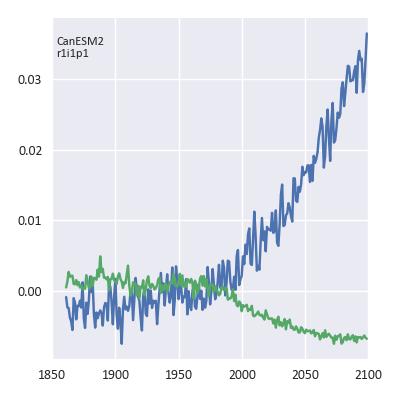
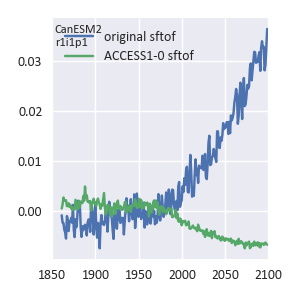
sftof maps

diff --git a/scripts/plots_map_samples.py b/scripts/plots_map_samples.py
@@ -23,21 +23,21 @@ import plot_maps as pl_mp; reload(pl_mp)
 
 # sic treatment
 arguments={
-	'files':['/p/projects/ipcc_pcmdi/ipcc_ar5_pcmdi/pcmdi_data/historical/OImon/sic/EC-EARTH/r1i1p1/sic_OImon_EC-EARTH_historical_r1i1p1_185001-200912.nc','data_models/EC-EARTH_r1i1p1/sic_rcp85_1861-2014.nc','data_models/EC-EARTH_r1i1p1/sic_rcp85_sicFix_1861-2014.nc'],
-	'var_names':['sic','sic','sic'],
+	'files':['data_models/EC-EARTH_r1i1p1/sic_rcp85_1861-2014.nc','data_models/EC-EARTH_r1i1p1/sic_rcp85_sicFix_1861-2014.nc'],
+	'var_names':['sic','sic'],
 	'titles':['no NAN-treatment','correct NAN-treatment'],
 	'outfile':'gmt_method_sensitivities/figures/maps_EC-EARTH_sicTreatment.png',
 	'label':'sic [0-1]',
 	'color_range':[0,1],
 	'extend':[5,35,50,85],
-	'time_steps':[132,0,0],
+	'time_steps':[0,0],
 }
 pl_mp.plot_maps(**arguments)
 
 
 # tos treatment
 arguments={
-	'files':['/p/projects/ipcc_pcmdi/ipcc_ar5_pcmdi/pcmdi_data/historical/Omon/tos/EC-EARTH/r1i1p1/tos_Omon_EC-EARTH_historical_r1i1p1_185001-200912.nc','data_models/EC-EARTH_r1i1p1/tos_rcp85_tosError_1861-2014.nc','data_models/EC-EARTH_r1i1p1/tos_rcp85_1861-2014.nc'],
+	'files':['data_models/EC-EARTH_r1i1p1/tos_rcp85_tosError_1861-2014.nc','data_models/EC-EARTH_r1i1p1/tos_rcp85_1861-2014.nc'],
 	'var_names':['tos','tos'],
 	'titles':['no NAN-treatment','correct NAN-treatment'],
 	'outfile':'gmt_method_sensitivities/figures/maps_EC-EARTH_tosTreatment.png',
@@ -89,6 +89,18 @@ arguments={
 }
 pl_mp.plot_maps(**arguments)
 
+# IPSL-CM5A-LR sftof replace
+arguments={
+	'files':['sftof_regrid/IPSL-CM5A-LR_remapbil.nc','sftof_regrid/IPSL-CM5A-LR_remapbil_NanTreated.nc','sftof_regrid/ACCESS1-0_remapbil.nc'],
+	'var_names':['sftof','sftof','sftof'],
+	'titles':['IPSL-CM5A-LR','IPSL-CM5A-LR nan treatment','ACCESS1-0'],
+	'outfile':'gmt_method_sensitivities/figures/maps_sftof_IPSL-CM5A-LR.png',
+	'label':'sftof [0-100]',
+	'color_range':[0,100],
+	'extend':[-10,20,30,65],
+	'nrows':1,
+}
+pl_mp.plot_maps(**arguments)
 
 # ACCESS1-0 sftof regridding
 arguments={

diff --git a/scripts/plots_single_model.py b/scripts/plots_single_model.py
@@ -32,33 +32,42 @@ tos_issues=[u'EC-EARTH_r1i1p1',
 def plot_single(model_run,style,var,versions,sftof_styles,outname,labels=None):
 	if labels is None: labels=versions
 	plt.close('all')
-	fig,ax=plt.subplots(nrows=1,ncols=1,figsize=(4,4))
+	fig,ax=plt.subplots(nrows=1,ncols=1,figsize=(3,3))
 	for version,sftof_style,label in zip(versions,sftof_styles,labels):
 		diff=(gmt_all[version,sftof_style,style,'rcp85',model_run,var,1861:2100].values-gmt_cowtan[style,'rcp85',model_run,var,1861:2100].values)
 		ax.plot(range(1861,2100,1),diff.reshape((len(gmt_cowtan.time)/12,12)).mean(axis=-1),label=label)
 
-	ax.text(1853,0.033,model_run.replace('_','\n'),fontsize=9)
 	ax.set_xlim((1850,2100))
 	#ax.set_ylim((-0.05,0.05))
 	#ax.set_yticks([-0.05,-0.025,0,0.025,0.05])
-	plt.legend()
+	ax.legend(loc='best')
 	plt.tight_layout()
 	plt.savefig(outname)
 
 plot_single(model_run='EC-EARTH_r1i1p1',
 			style='xax',
 			var='gmt',
-			versions=['_tosError','_sicError','_normal'],
+			versions=['_naive','_tosError','_normal'],
+			labels=['naive','tos Error','normal'],
 			sftof_styles=['_remapbil','_remapbil','_remapbil'],
-			outname='figures/tosError_EC-EARTH_r1i1p1.png')
+			outname='figures/tosError_EC-EARTH.png')
 
-
-plot_single(model_run='CanESM2_r1i1p1',
+plot_single(model_run='EC-EARTH_r1i1p1',
 			style='xax',
 			var='gmt',
-			versions=['_sftofError','_normal'],
-			sftof_styles=['_remapbil','_remapbil'],
-			outname='figures/sftofError_CanESM2_r1i1p1.png')
+			versions=['_naive','_sicError','_normal'],
+			labels=['naive','sic Error','normal'],
+			sftof_styles=['_remapbil','_remapbil','_remapbil'],
+			outname='figures/sicError_EC-EARTH.png')
+
+
+plot_single(model_run='IPSL-CM5A-LR_r1i1p1',
+			style='xax',
+			var='gmt',
+			versions=['_sftofError','_normal','_sftofNanTreated'],
+			labels=['original sftof','ACCESS1-0 sftof','NAN treatment in sftof'],
+			sftof_styles=['_remapbil','_remapbil','_remapbil'],
+			outname='figures/sftofError_IPSL-CM5A-LR.png')
 
 
 plot_single(model_run='ACCESS1-0_r1i1p1',
